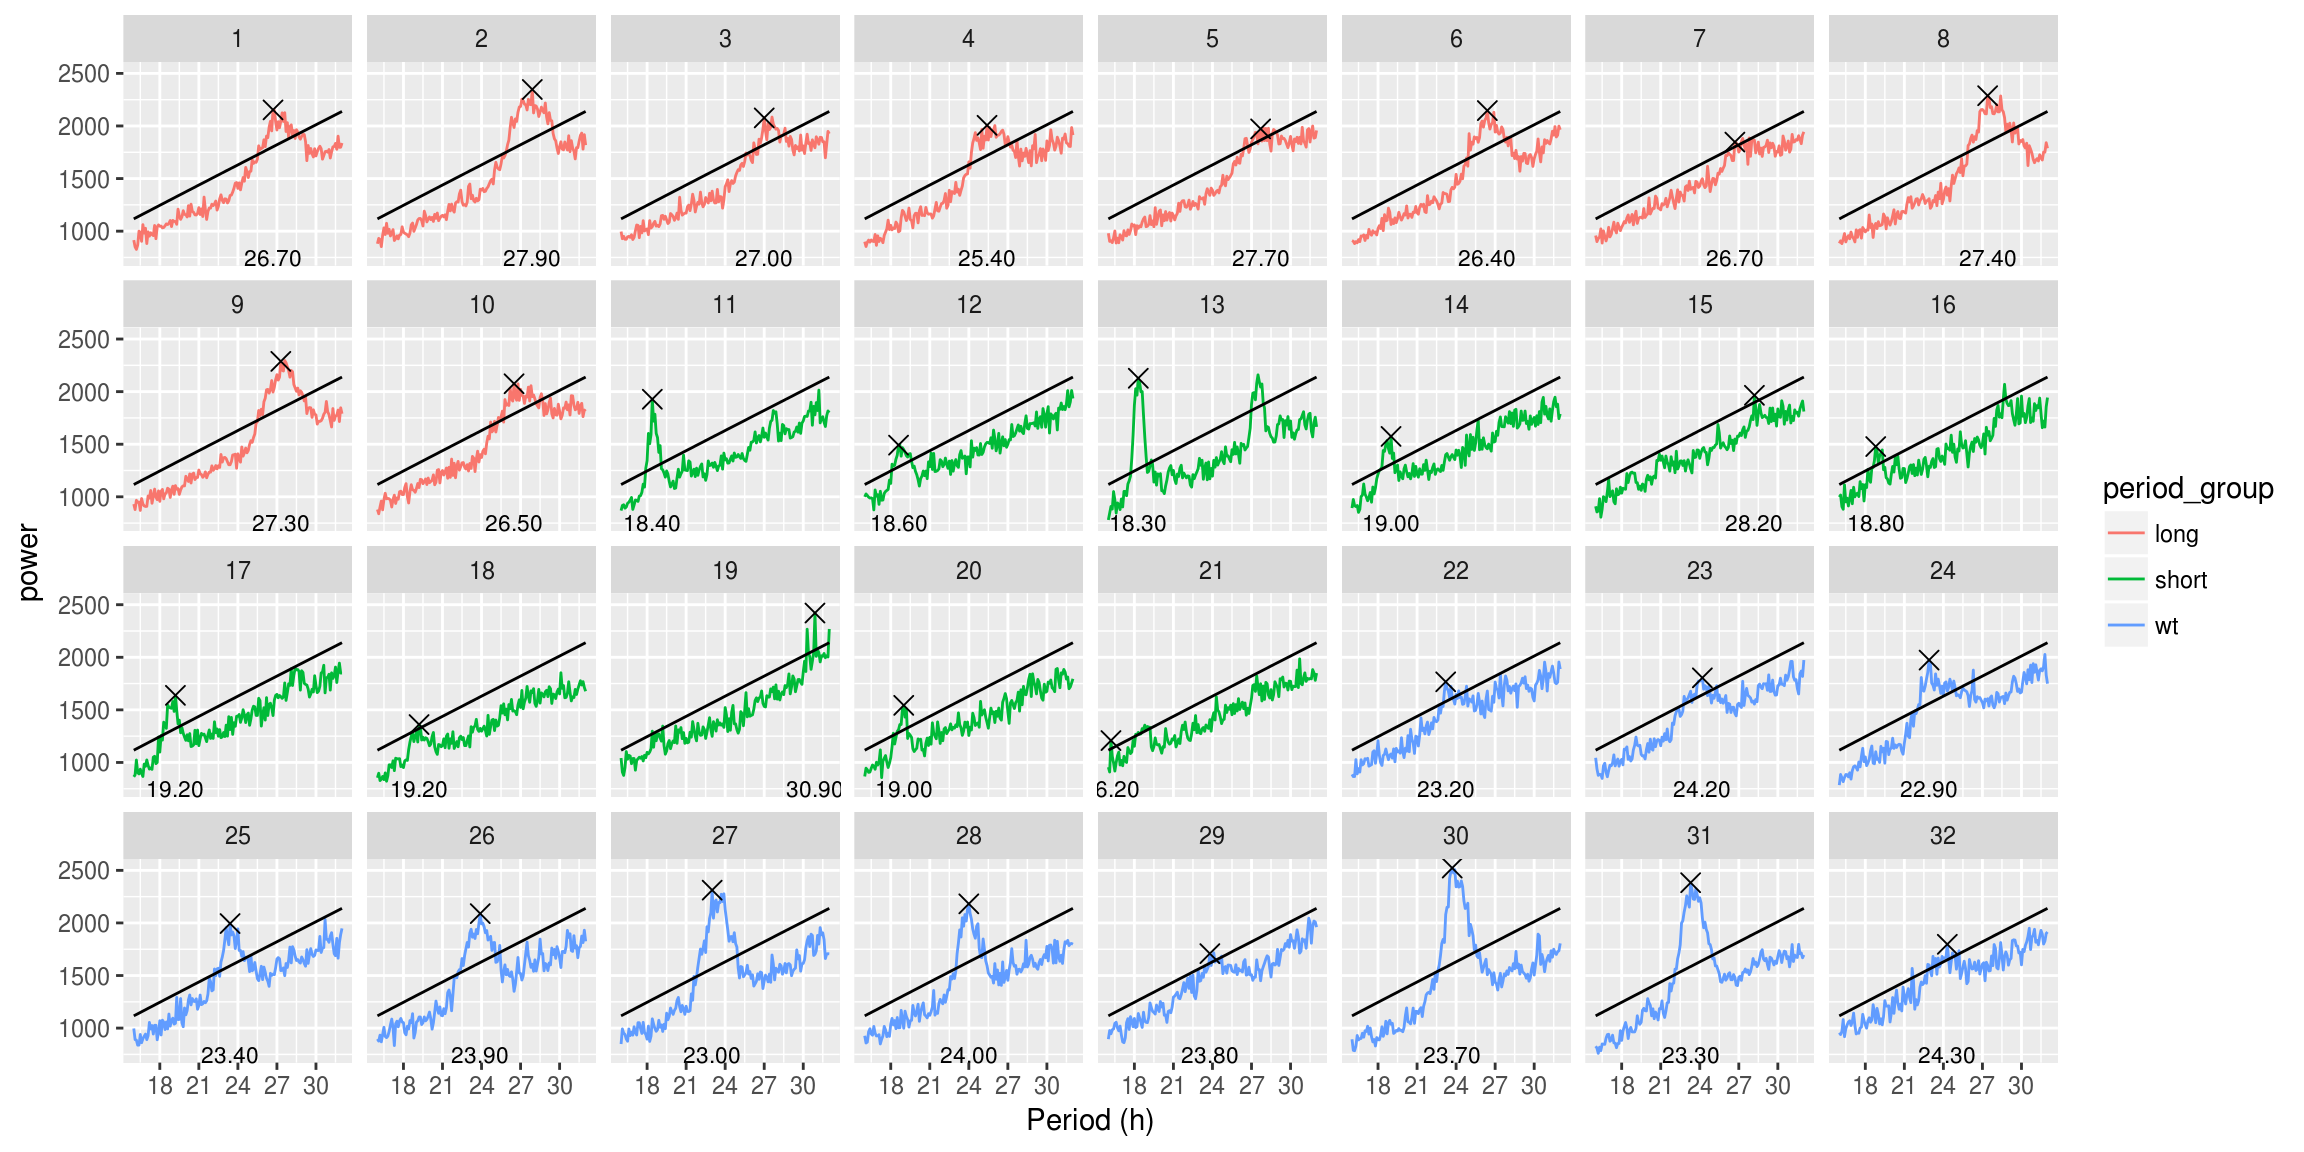
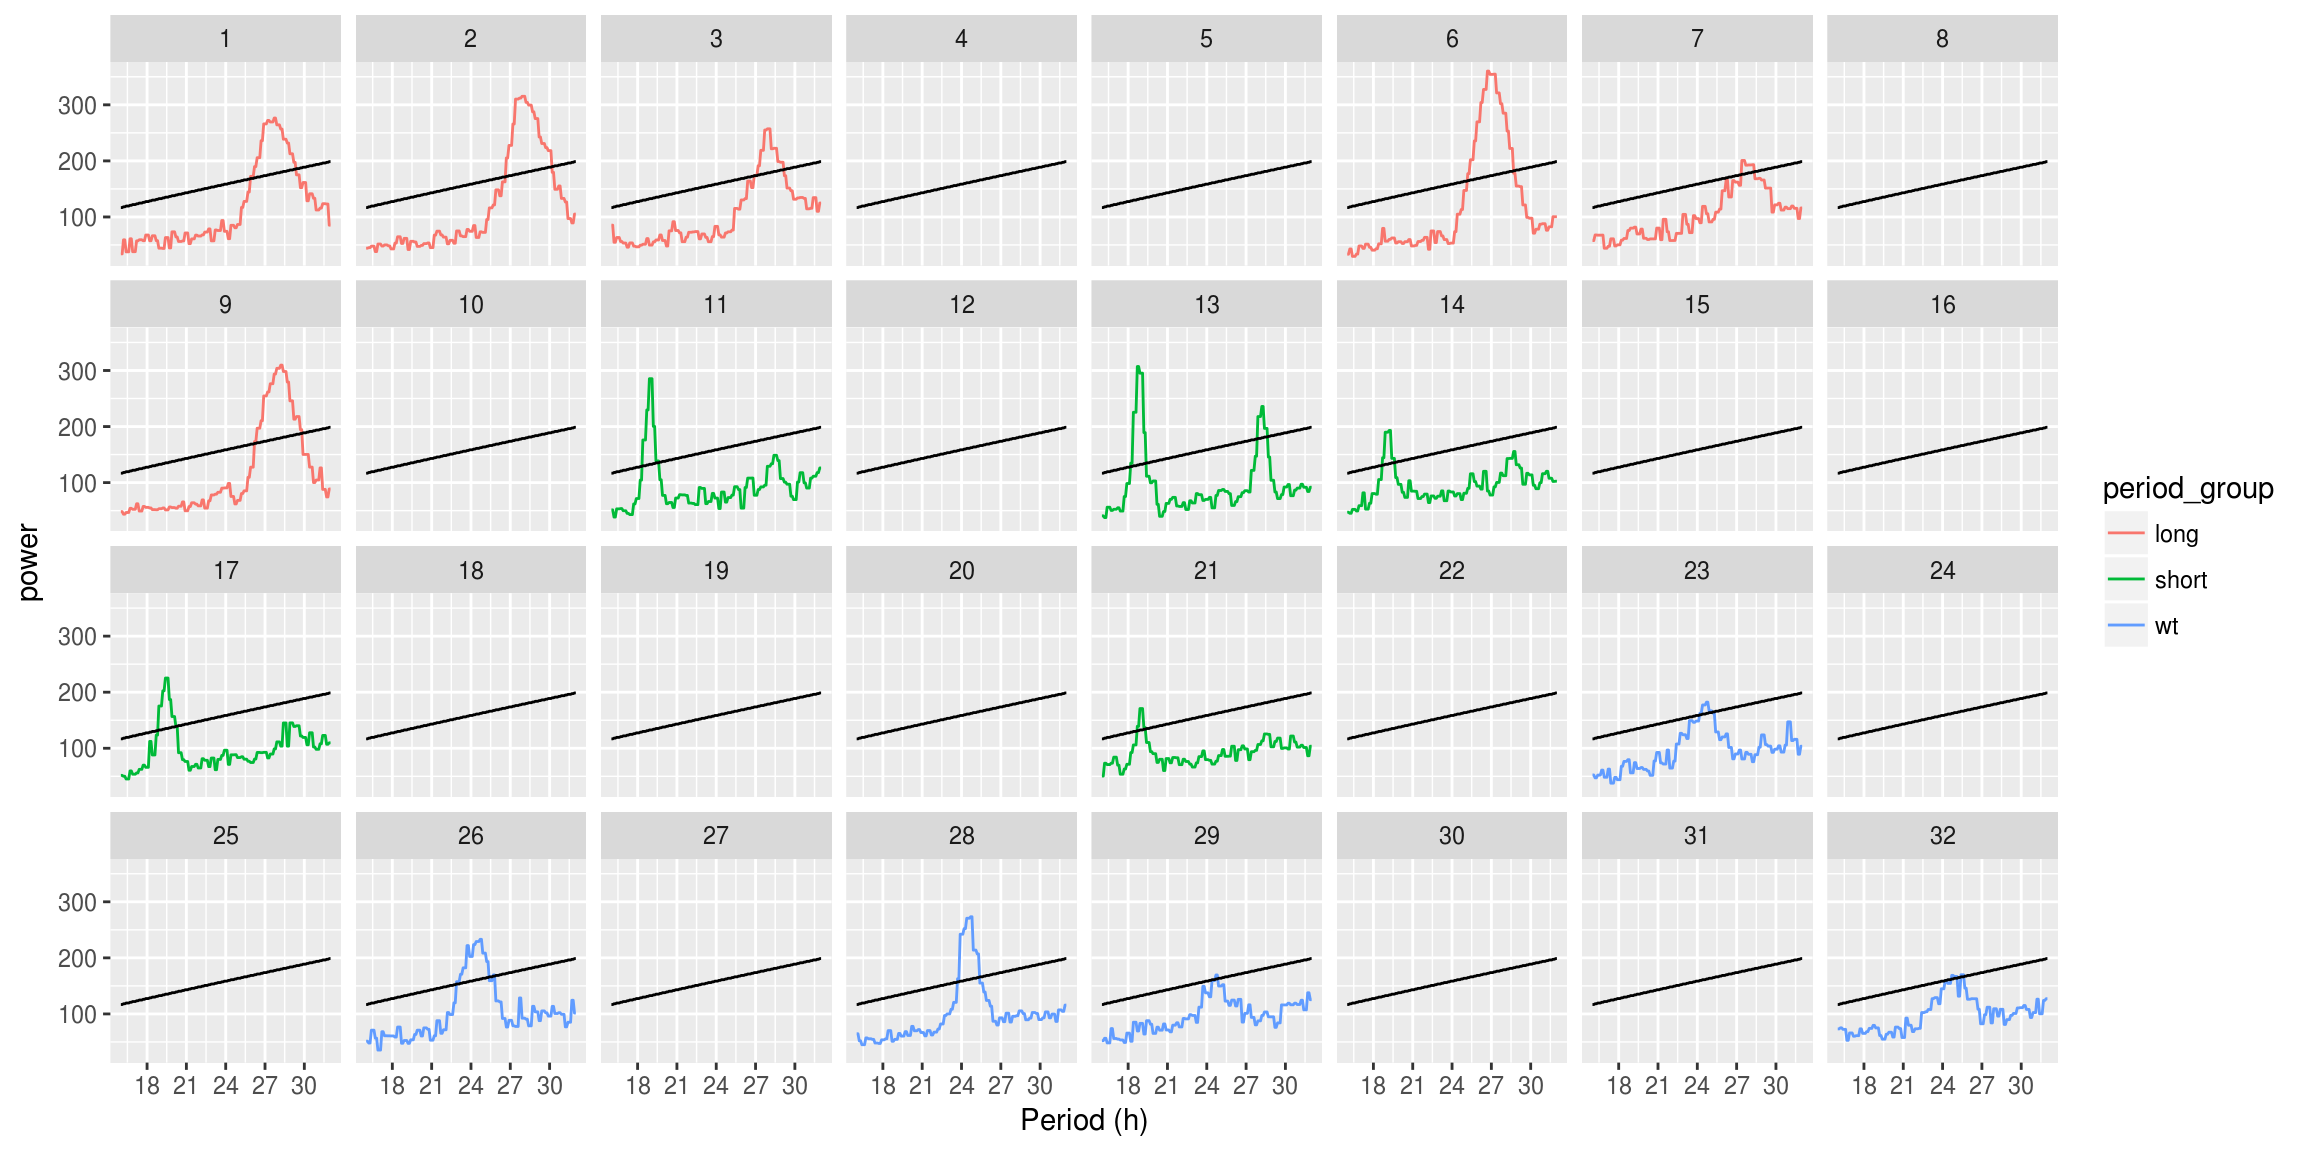
Automatic deployment after 7045d34b0e9099193a25b80bd120778a9fb6d24a [ci skip]

diff --git a/zeitgebr.html b/zeitgebr.html
@@ -25,7 +25,7 @@
 <meta name="author" content="Quentin Geissmann">
 
 
-<meta name="date" content="2018-01-31">
+<meta name="date" content="2018-02-07">
 
   <meta name="viewport" content="width=device-width, initial-scale=1">
   <meta name="apple-mobile-web-app-capable" content="yes">
@@ -518,28 +518,28 @@ per_xsq_dt</code></pre></div>
 ## 
 ##                                           id period     power
 ##                                       &lt;fctr&gt;  &lt;num&gt;     &lt;num&gt;
-##    1: 2017-01-16 08:00:00|dams_sample.txt|01  57600  915.1469
-##    2: 2017-01-16 08:00:00|dams_sample.txt|01  57960  850.5985
-##    3: 2017-01-16 08:00:00|dams_sample.txt|01  58320  826.6236
-##    4: 2017-01-16 08:00:00|dams_sample.txt|01  58680  866.8840
+##    1: 2017-01-16 08:00:00|dams_sample.txt|01  57600  34.17475
+##    2: 2017-01-16 08:00:00|dams_sample.txt|01  57960  34.17475
+##    3: 2017-01-16 08:00:00|dams_sample.txt|01  58320  59.19905
+##    4: 2017-01-16 08:00:00|dams_sample.txt|01  58680  59.19905
 ##   ---                                                        
-## 5148: 2017-01-16 08:00:00|dams_sample.txt|32 113760 1894.0673
-## 5149: 2017-01-16 08:00:00|dams_sample.txt|32 114120 1799.8931
-## 5150: 2017-01-16 08:00:00|dams_sample.txt|32 114480 1828.1604
-## 5151: 2017-01-16 08:00:00|dams_sample.txt|32 114840 1900.2470
-## 5152: 2017-01-16 08:00:00|dams_sample.txt|32 115200 1914.5098
+## 5148: 2017-01-16 08:00:00|dams_sample.txt|32 113760 100.21510
+## 5149: 2017-01-16 08:00:00|dams_sample.txt|32 114120 124.12366
+## 5150: 2017-01-16 08:00:00|dams_sample.txt|32 114480 124.12366
+## 5151: 2017-01-16 08:00:00|dams_sample.txt|32 114840 127.12975
+## 5152: 2017-01-16 08:00:00|dams_sample.txt|32 115200 127.12975
 ##       signif_threshold   p_value
 ##                  &lt;num&gt;     &lt;num&gt;
-##    1:         1116.799 0.8472578
-##    2:         1123.266 0.9967620
-##    3:         1129.731 0.9997322
-##    4:         1136.195 0.9953279
+##    1:         116.7888 0.9991894
+##    2:         116.7888 0.9991894
+##    3:         118.1251 0.6793185
+##    4:         118.1251 0.6793185
 ##   ---                           
-## 5148:         2113.450 0.5082053
-## 5149:         2119.782 0.9530575
-## 5150:         2126.114 0.9032170
-## 5151:         2132.445 0.5839614
-## 5152:         2138.776 0.5310549</code></pre>
+## 5148:         196.2269 0.9561612
+## 5149:         197.4675 0.5556435
+## 5150:         197.4675 0.5556435
+## 5151:         198.7071 0.5051096
+## 5152:         198.7071 0.5051096</code></pre>
 <p>The result is another <code>behavr</code> table, with the same metadata. The data however, is now a list of power vs period (and significance).</p>
 <p>Have a look at the other options (see <code>?periodogram</code>).</p>
 </div>
@@ -568,6 +568,7 @@ per_xsq_dt</code></pre></div>
                   <span class="dt">y =</span> power <span class="op">-</span><span class="st"> </span>signif_threshold,
                   <span class="dt">colour=</span>period_group)) <span class="op">+</span><span class="st"> </span>
 <span class="st">                  </span><span class="kw">stat_pop_etho</span>()</code></pre></div>
+<pre><code>## Warning: Removed 2576 rows containing non-finite values (stat_pop_etho).</code></pre>
 <p><img src="rethomics_files/figure-html/unnamed-chunk-132-1.png" width="672" /></p>
 </div>
 <div id="exctract-the-peak-values" class="section level3 unnumbered">
@@ -575,54 +576,7 @@ per_xsq_dt</code></pre></div>
 <p>At some point, you would like to <strong>summarise</strong> each animal by, say, it first peak. Then, you can look at whether there are significant difference in peak periodicity vs genotype. Doing that is quite straigtforward. First, we <strong>select only rows where peak is exactly 1</strong>, then <a href="https://rethomics.github.io/behavr.html#operating-on-behavr-tables">rejoin</a> our table to its metadata:</p>
 <div class="sourceCode"><pre class="sourceCode r"><code class="sourceCode r">summary_dt &lt;-<span class="st"> </span><span class="kw">rejoin</span>(per_xsq_dt[peak<span class="op">==</span><span class="dv">1</span>])
 summary_dt</code></pre></div>
-<pre><code>##                                         id file_info region_id
-##  1: 2017-01-16 08:00:00|dams_sample.txt|01    &lt;list&gt;         1
-##  2: 2017-01-16 08:00:00|dams_sample.txt|02    &lt;list&gt;         2
-##  3: 2017-01-16 08:00:00|dams_sample.txt|03    &lt;list&gt;         3
-##  4: 2017-01-16 08:00:00|dams_sample.txt|04    &lt;list&gt;         4
-##  5: 2017-01-16 08:00:00|dams_sample.txt|05    &lt;list&gt;         5
-## ---                                                           
-## 28: 2017-01-16 08:00:00|dams_sample.txt|28    &lt;list&gt;        28
-## 29: 2017-01-16 08:00:00|dams_sample.txt|29    &lt;list&gt;        29
-## 30: 2017-01-16 08:00:00|dams_sample.txt|30    &lt;list&gt;        30
-## 31: 2017-01-16 08:00:00|dams_sample.txt|31    &lt;list&gt;        31
-## 32: 2017-01-16 08:00:00|dams_sample.txt|32    &lt;list&gt;        32
-##                           experiment_id      start_datetime
-##  1: 2017-01-16 08:00:00|dams_sample.txt 2017-01-16 08:00:00
-##  2: 2017-01-16 08:00:00|dams_sample.txt 2017-01-16 08:00:00
-##  3: 2017-01-16 08:00:00|dams_sample.txt 2017-01-16 08:00:00
-##  4: 2017-01-16 08:00:00|dams_sample.txt 2017-01-16 08:00:00
-##  5: 2017-01-16 08:00:00|dams_sample.txt 2017-01-16 08:00:00
-## ---                                                        
-## 28: 2017-01-16 08:00:00|dams_sample.txt 2017-01-16 08:00:00
-## 29: 2017-01-16 08:00:00|dams_sample.txt 2017-01-16 08:00:00
-## 30: 2017-01-16 08:00:00|dams_sample.txt 2017-01-16 08:00:00
-## 31: 2017-01-16 08:00:00|dams_sample.txt 2017-01-16 08:00:00
-## 32: 2017-01-16 08:00:00|dams_sample.txt 2017-01-16 08:00:00
-##           stop_datetime period_group uid period    power signif_threshold
-##  1: 2017-01-26 00:09:00         long   1  96120 2153.087         1802.460
-##  2: 2017-01-26 00:09:00         long   2 100440 2347.342         1878.755
-##  3: 2017-01-26 00:09:00         long   3  97200 2076.914         1821.542
-##  4: 2017-01-26 00:09:00         long   4  91440 2006.426         1719.695
-##  5: 2017-01-26 00:09:00         long   5  99720 1972.638         1866.046
-## ---                                                                      
-## 28: 2017-01-26 00:09:00           wt  28  86400 2181.824         1630.426
-## 29: 2017-01-26 00:09:00           wt  29  85680 1708.511         1617.661
-## 30: 2017-01-26 00:09:00           wt  30  85320 2522.066         1611.277
-## 31: 2017-01-26 00:09:00           wt  31  83880 2382.727         1585.734
-## 32: 2017-01-26 00:09:00           wt  32  87480 1796.982         1649.568
-##          p_value peak
-##  1: 6.125265e-19    1
-##  2: 1.604665e-25    1
-##  3: 7.451378e-14    1
-##  4: 8.065774e-16    1
-##  5: 1.733647e-07    1
-## ---                  
-## 28: 1.999996e-33    1
-## 29: 3.668583e-07    1
-## 30: 2.215774e-64    1
-## 31: 2.308707e-54    1
-## 32: 2.314742e-09    1</code></pre>
+<pre><code>## Empty data.table (0 rows) of 13 cols: id,file_info,region_id,experiment_id,start_datetime,stop_datetime...</code></pre>
 <p><code>summary_dt</code> can be used as a standard <code>R</code> dataframe for further analysis. For instance, with <code>ggplot</code>, I make a <strong>boxplot showing the distribution of periods</strong>, in h, for each groups. I also add <strong>a point for each animal</strong> (so we see outliers). Then, I make the <strong>size of the points proportional to the relative power of the peak discovered</strong>, so we get an idea of how much to “trust” this point.</p>
 <div class="sourceCode"><pre class="sourceCode r"><code class="sourceCode r"><span class="kw">ggplot</span>(summary_dt, <span class="kw">aes</span>(period_group, period, <span class="dt">fill=</span> period_group)) <span class="op">+</span><span class="st"> </span>
 <span class="st">        </span><span class="kw">geom_boxplot</span>(<span class="dt">outlier.colour =</span> <span class="ot">NA</span>) <span class="op">+</span>
@@ -631,22 +585,12 @@ summary_dt</code></pre></div>
 <p><img src="rethomics_files/figure-html/unnamed-chunk-134-1.png" width="672" /></p>
 <p>Another direction could be to perform pairwise wilcoxon tests between groups:</p>
 <div class="sourceCode"><pre class="sourceCode r"><code class="sourceCode r"><span class="kw">pairwise.wilcox.test</span>(summary_dt<span class="op">$</span>period, summary_dt<span class="op">$</span>period_group )</code></pre></div>
-<pre><code>## Warning in wilcox.test.default(xi, xj, paired = paired, ...): cannot
-## compute exact p-value with ties
-
-## Warning in wilcox.test.default(xi, xj, paired = paired, ...): cannot
-## compute exact p-value with ties
-
-## Warning in wilcox.test.default(xi, xj, paired = paired, ...): cannot
-## compute exact p-value with ties</code></pre>
 <pre><code>## 
 ##  Pairwise comparisons using Wilcoxon rank sum test 
 ## 
 ## data:  summary_dt$period and summary_dt$period_group 
 ## 
-##       long    short  
-## short 0.02507 -      
-## wt    0.00037 0.02507
+## &lt;0 x 0 matrix&gt;
 ## 
 ## P value adjustment method: holm</code></pre>
 <p>This tells us that their is a statistically significant difference between each pair of group.</p>

diff --git a/ggetho.html b/ggetho.html
@@ -25,7 +25,7 @@
 <meta name="author" content="Quentin Geissmann">
 
 
-<meta name="date" content="2018-01-31">
+<meta name="date" content="2018-02-07">
 
   <meta name="viewport" content="width=device-width, initial-scale=1">
   <meta name="apple-mobile-web-app-capable" content="yes">
@@ -682,22 +682,23 @@ per_dt</code></pre></div>
 ## 
 ##  ====== DATA ======
 ## 
-##                      id period     power signif_threshold   p_value
-##                  &lt;char&gt;  &lt;num&gt;     &lt;num&gt;            &lt;num&gt;     &lt;num&gt;
-##    1: toy_experiment|01  57600  914.3712         1116.799 0.8515318
-##    2: toy_experiment|01  57960  826.4995         1123.266 0.9995587
-##    3: toy_experiment|01  58320  706.3431         1129.731 1.0000000
-##    4: toy_experiment|01  58680  684.4978         1136.195 1.0000000
-##   ---                                                              
-## 6436: toy_experiment|40 113760 1453.2889         2113.450 1.0000000
-## 6437: toy_experiment|40 114120 1465.9285         2119.782 1.0000000
-## 6438: toy_experiment|40 114480 1635.6914         2126.114 0.9999981
-## 6439: toy_experiment|40 114840 1603.4721         2132.445 0.9999999
-## 6440: toy_experiment|40 115200 1599.4304         2138.776 1.0000000</code></pre>
+##                      id period    power signif_threshold   p_value
+##                  &lt;char&gt;  &lt;num&gt;    &lt;num&gt;            &lt;num&gt;     &lt;num&gt;
+##    1: toy_experiment|01  57600       NA         116.7888        NA
+##    2: toy_experiment|01  57960       NA         116.7888        NA
+##    3: toy_experiment|01  58320       NA         118.1251        NA
+##    4: toy_experiment|01  58680       NA         118.1251        NA
+##   ---                                                             
+## 6436: toy_experiment|40 113760 53.31129         196.2269 1.0000000
+## 6437: toy_experiment|40 114120 62.78384         197.4675 0.9999997
+## 6438: toy_experiment|40 114480 62.78384         197.4675 0.9999997
+## 6439: toy_experiment|40 114840 74.62655         198.7071 0.9999552
+## 6440: toy_experiment|40 115200 74.62655         198.7071 0.9999552</code></pre>
 <div class="sourceCode"><pre class="sourceCode r"><code class="sourceCode r"><span class="kw">ggplot</span>(<span class="kw">rejoin</span>(per_dt), <span class="kw">aes</span>(period, power, <span class="dt">colour=</span>condition)) <span class="op">+</span><span class="st"> </span>
 <span class="st">        </span><span class="kw">geom_line</span>(<span class="dt">mapping =</span> <span class="kw">aes</span>(<span class="dt">group =</span> id), <span class="dt">alpha=</span>.<span class="dv">1</span>) <span class="op">+</span><span class="st"> </span>
 <span class="st">        </span><span class="kw">scale_x_hours</span>() <span class="op">+</span><span class="st"> </span>
 <span class="st">        </span><span class="kw">stat_summary</span>(<span class="dt">geom=</span><span class="st">&quot;smooth&quot;</span>, <span class="dt">fun.data =</span>  mean_se)</code></pre></div>
+<pre><code>## Warning: Removed 3220 rows containing non-finite values (stat_summary).</code></pre>
 <p><img src="rethomics_files/figure-html/unnamed-chunk-91-1.png" width="672" /></p>
 </div>
 <div id="miscelaneous" class="section level2 unnumbered">

diff --git a/scopr.html b/scopr.html
@@ -25,7 +25,7 @@
 <meta name="author" content="Quentin Geissmann">
 
 
-<meta name="date" content="2018-01-31">
+<meta name="date" content="2018-02-07">
 
   <meta name="viewport" content="width=device-width, initial-scale=1">
   <meta name="apple-mobile-web-app-capable" content="yes">
@@ -704,7 +704,7 @@ dt &lt;-<span class="st"> </span><span class="kw">load_ethoscope</span>(metadata
                        <span class="dt">verbose=</span><span class="ot">FALSE</span>)
 )</code></pre></div>
 <pre><code>##    user  system elapsed 
-## 183.328   5.072 188.560</code></pre>
+## 164.049   6.115 169.179</code></pre>
 <p>However, the next time, we do the same thing way faster:</p>
 <div class="sourceCode"><pre class="sourceCode r"><code class="sourceCode r"><span class="kw">system.time</span>(
   dt &lt;-<span class="st"> </span><span class="kw">load_ethoscope</span>(metadata,
@@ -714,7 +714,7 @@ dt &lt;-<span class="st"> </span><span class="kw">load_ethoscope</span>(metadata
                        <span class="dt">verbose=</span><span class="ot">FALSE</span>)
 )</code></pre></div>
 <pre><code>##    user  system elapsed 
-##   2.300   0.051   2.397</code></pre>
+##   1.974   0.092   2.017</code></pre>
 <p>Here, we set <code>cache</code> to <code>&quot;ethoscope_cache&quot;</code>. This creates a new directory called <code>&quot;ethoscope_cache&quot;</code> (you can pick the name and location you want). If you to do a bit of tidying up, you can remove it without risk (it will just take time next time you load your data).</p>
 </div>
 </div>

diff --git a/intro.html b/intro.html
@@ -25,7 +25,7 @@
 <meta name="author" content="Quentin Geissmann">
 
 
-<meta name="date" content="2018-01-31">
+<meta name="date" content="2018-02-07">
 
   <meta name="viewport" content="width=device-width, initial-scale=1">
   <meta name="apple-mobile-web-app-capable" content="yes">
@@ -305,7 +305,7 @@ code > span.in { color: #60a0b0; font-weight: bold; font-style: italic; } /* Inf
 </div>
 <div id="installing-rethomics-packages" class="section level2 unnumbered">
 <h2>Installing rethomics packages</h2>
-<p>As of today (2018-01-31), <code>rethomics</code> packages are not on CRAN, the official <code>R</code> package archive, yet. Therefore, we will install their developmental version.</p>
+<p>As of today (2018-02-07), <code>rethomics</code> packages are not on CRAN, the official <code>R</code> package archive, yet. Therefore, we will install their developmental version.</p>
 <p>As a prerequisite, we need to install (once for all) <code>devtools</code> and load it:</p>
 <div class="sourceCode"><pre class="sourceCode r"><code class="sourceCode r"><span class="kw">install.packages</span>(<span class="st">&quot;devtools&quot;</span>)
 <span class="kw">library</span>(devtools)</code></pre></div>

diff --git a/index.html b/index.html
@@ -25,7 +25,7 @@
 <meta name="author" content="Quentin Geissmann">
 
 
-<meta name="date" content="2018-01-31">
+<meta name="date" content="2018-02-07">
 
   <meta name="viewport" content="width=device-width, initial-scale=1">
   <meta name="apple-mobile-web-app-capable" content="yes">
@@ -300,7 +300,7 @@ code > span.in { color: #60a0b0; font-weight: bold; font-style: italic; } /* Inf
 <div id="header">
 <h1 class="title">Rethomics, a framework for high-throughput behaviour analysis in R</h1>
 <h4 class="author"><em>Quentin Geissmann</em></h4>
-<h4 class="date"><em>2018-01-31</em></h4>
+<h4 class="date"><em>2018-02-07</em></h4>
 </div>
 <div id="introduction" class="section level1 unnumbered">
 <h1>Introduction</h1>

diff --git a/behavr.html b/behavr.html
@@ -25,7 +25,7 @@
 <meta name="author" content="Quentin Geissmann">
 
 
-<meta name="date" content="2018-01-31">
+<meta name="date" content="2018-02-07">
 
   <meta name="viewport" content="width=device-width, initial-scale=1">
   <meta name="apple-mobile-web-app-capable" content="yes">

diff --git a/damr.html b/damr.html
@@ -25,7 +25,7 @@
 <meta name="author" content="Quentin Geissmann">
 
 
-<meta name="date" content="2018-01-31">
+<meta name="date" content="2018-02-07">
 
   <meta name="viewport" content="width=device-width, initial-scale=1">
   <meta name="apple-mobile-web-app-capable" content="yes">

diff --git a/metadata.html b/metadata.html
@@ -25,7 +25,7 @@
 <meta name="author" content="Quentin Geissmann">
 
 
-<meta name="date" content="2018-01-31">
+<meta name="date" content="2018-02-07">
 
   <meta name="viewport" content="width=device-width, initial-scale=1">
   <meta name="apple-mobile-web-app-capable" content="yes">

diff --git a/sleepr.html b/sleepr.html
@@ -25,7 +25,7 @@
 <meta name="author" content="Quentin Geissmann">
 
 
-<meta name="date" content="2018-01-31">
+<meta name="date" content="2018-02-07">
 
   <meta name="viewport" content="width=device-width, initial-scale=1">
   <meta name="apple-mobile-web-app-capable" content="yes">

diff --git a/workflow.html b/workflow.html
@@ -25,7 +25,7 @@
 <meta name="author" content="Quentin Geissmann">
 
 
-<meta name="date" content="2018-01-31">
+<meta name="date" content="2018-02-07">
 
   <meta name="viewport" content="width=device-width, initial-scale=1">
   <meta name="apple-mobile-web-app-capable" content="yes">
